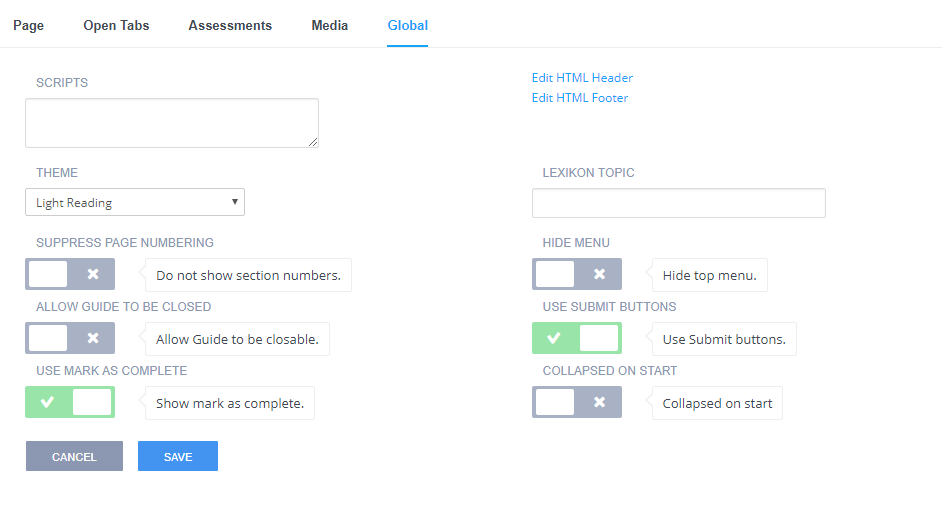
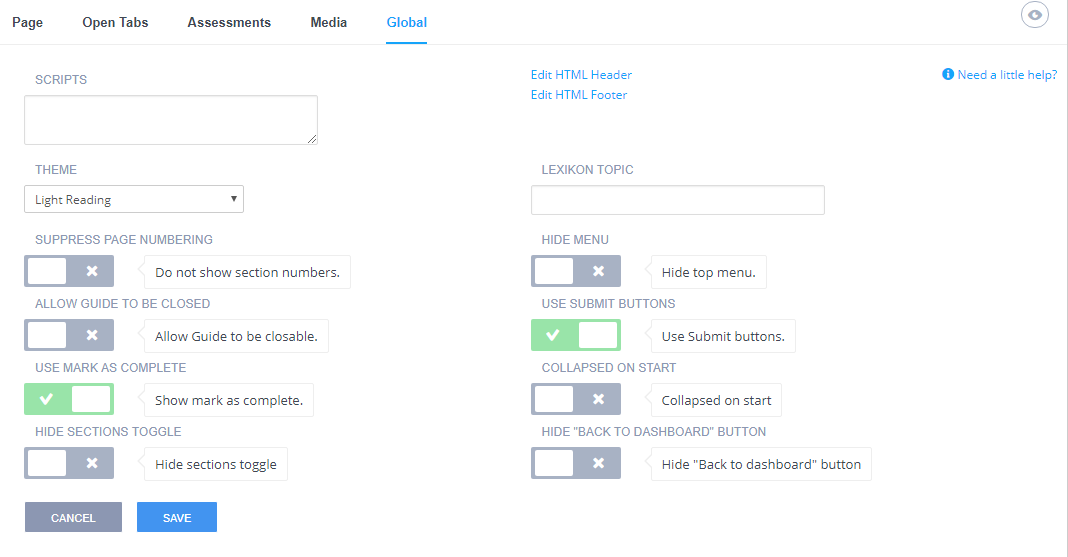
changelog #9872

diff --git a/source/docs/content/authoring/settings-actions/global.html.md b/source/docs/content/authoring/settings-actions/global.html.md
@@ -51,3 +51,9 @@ Enable this to collapse the guides pane in the unit/project when the [layout](/d
 
 The guides can be reopened by clicking the hamburger icon:
 <img alt="StartGuides" src="/img/docs/openguides.png" class="simple"/>
+
+### Hide Sections Toggle
+Enable this to hide the option for students to switch sections using the Section list hamburger icon
+
+### Hide Back to Dashboard button
+Enable this to hide the 'Back to Dashboard' button that by default will show to the students at the end of the unit
